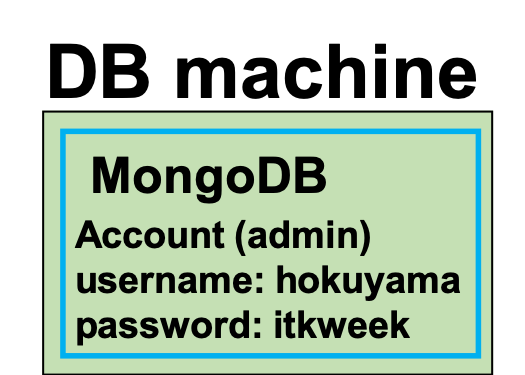
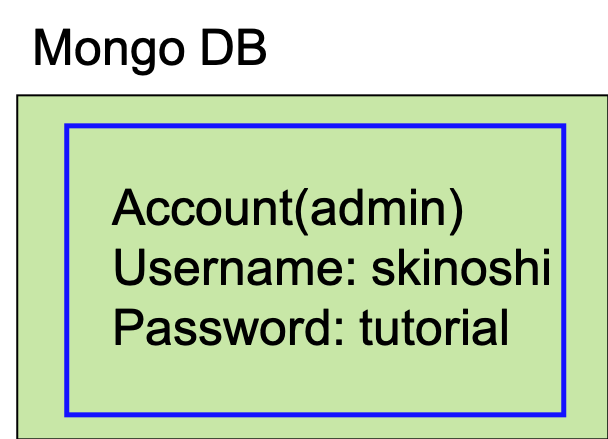
fix setup

diff --git a/docs/qcflow/viewer.md b/docs/qcflow/viewer.md
@@ -10,7 +10,7 @@ Input localdb admin's username and password in the middle of the command.<br>
 (e.g.: USERNAME=hokuyama, PASSWORD=itkweek)
 
 !!! Warning
-    If you did not download submodules (pltting tools, analysis tools and itkpd-interface), you can not collectry setup LocalDB. Please confirm they are downloaded.
+    If you did not install submodules (pltting tools, analysis tools and itkpd-interface), you can not collectry setup LocalDB. Please confirm they are downloaded.
 
 ```bash
 $ cd ~/work/localdb-tools/viewer
@@ -56,6 +56,16 @@ Authentication succeeded.
 
 You can open browser and access the LocalDB viewer.
 The url is [http://127.0.0.1:5000/localdb](http://127.0.0.1:5000/localdb) or https://IPADRESS:5000/localdb.
+
+
+### 3. Download institutions and module types from ITkPD
+
+We need to download institution list and module types list from ITkPD. We will download these infomaiton using LocalDB viewer:
+
+![download pdinfo](../images/qc-flow/download_pdinfo.png)
+
+<br>
+After setup LocalDB, we will register components to ITkPD.
 
 Go to next step.<br>
 [Register Children(PCB, chip, sensor, carrier) to ITkPD](register_children.md)<br>

diff --git a/docs/qcflow/scanconsole.md b/docs/qcflow/scanconsole.md
@@ -104,9 +104,13 @@ $ ./bin/scanConsole -r configs/controller/emuCfg_rd53a.json -c db-data/connectiv
 Check the test results [http://127.0.0.1:5000/localdb/scan](http://127.0.0.1:5000/localdb/scan) or http://IPADRESS:5000/localdb/scan.<br>
 
 
-We are also developing a SW to run these scan at once.<br>
+We are also developing scan operator to run these scan at once.<br>
+Scan operator acts as an interface between the user and all the LocalDB scripts/confg files to make scans easier.
+
 Scan Operator repo ([https://gitlab.cern.ch/YARR/utilities/scan-operator](https://gitlab.cern.ch/YARR/utilities/scan-operator))
 
+
+<br>
 After uploading scans results for Full Electrical Test, select scans and register as a QC-test result.
 
 Go to next step.<br>

diff --git a/docs/qcflow/mongodb.md b/docs/qcflow/mongodb.md
@@ -5,7 +5,7 @@
 
 ## Create accounts in mongoDB
 Create an account in mongoDB using the following commands.<br>
-Input "username" and "password" as you like.(e.g.: USERNAME=hokuyama, PASSWORD=itkweek)<br>
+Input "username" and "password" as you like.(e.g.: USERNAME=skinoshi, PASSWORD=tutorial)<br>
 <span style="color: red; ">**These are used as LocalDB admin's username and password.**</span>
 
 ```bash
@@ -26,10 +26,6 @@ For checking the setting of Local DB: /etc/mongod.conf
 ```
 ![mongo account](../images/qc-flow/database_mongo_account.png)
 
-Reload the config file and restart the mongoDB service with the bellow command.
-```bash
-sudo systemctl restart mongod.service
-```
 Now the mongoDB setup is done!!<br>
 
 
